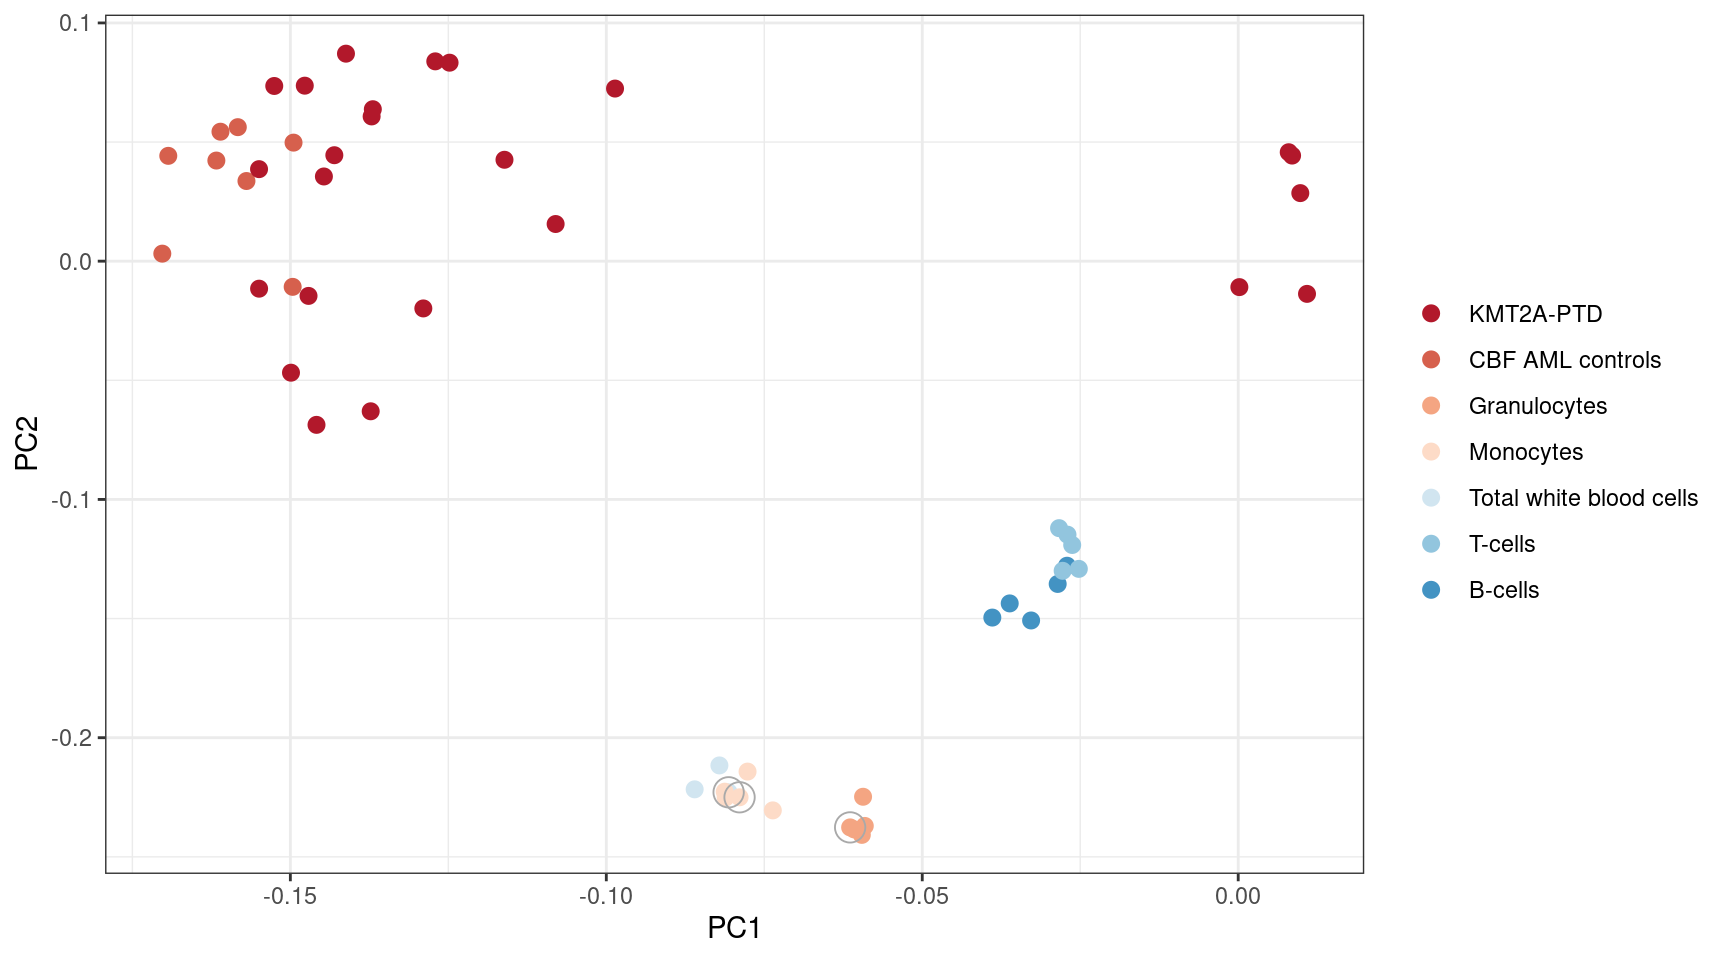
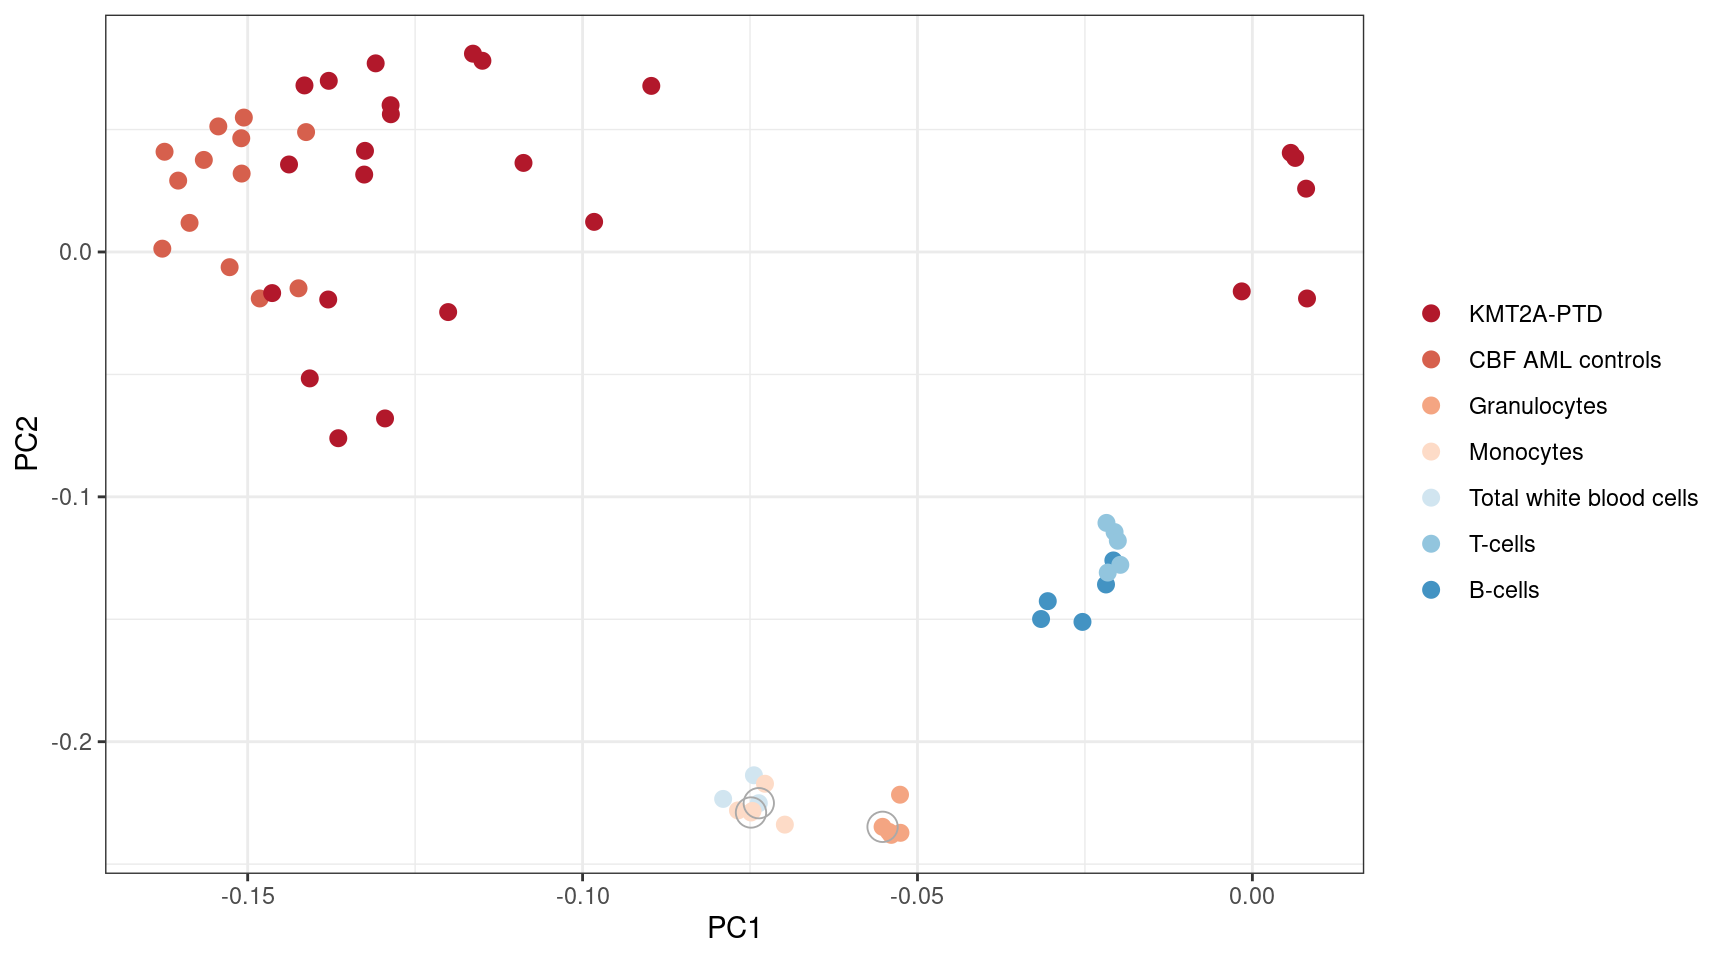
Build site.

diff --git a/docs/Leucegene_Gene_Expression.html b/docs/Leucegene_Gene_Expression.html
@@ -426,7 +426,7 @@ div.section {
 <div class="tab-content">
 <div id="summary" class="tab-pane fade in active">
 <p>
-<strong>Last updated:</strong> 2020-07-03
+<strong>Last updated:</strong> 2020-07-07
 </p>
 <p>
 <strong>Checks:</strong> <span class="glyphicon glyphicon-ok text-success" aria-hidden="true"></span> 7 <span class="glyphicon glyphicon-exclamation-sign text-danger" aria-hidden="true"></span> 0
@@ -517,10 +517,10 @@ This reproducible <a href="http://rmarkdown.rstudio.com">R Markdown</a> analysis
 <div class="panel panel-default">
 <div class="panel-heading">
 <p class="panel-title">
-<a data-toggle="collapse" data-parent="#workflowr-checks" href="#strongRepositoryversionstrongahrefhttpsgithubcomOshlackMINTIEpaperanalysistreed4fe950accca5ae95f3a844513d81603a191d248targetblankd4fe950a"> <span class="glyphicon glyphicon-ok text-success" aria-hidden="true"></span> <strong>Repository version:</strong> <a href="https://github.com/Oshlack/MINTIE-paper-analysis/tree/d4fe950accca5ae95f3a844513d81603a191d248" target="_blank">d4fe950</a> </a>
+<a data-toggle="collapse" data-parent="#workflowr-checks" href="#strongRepositoryversionstrongahrefhttpsgithubcomOshlackMINTIEpaperanalysistreef16b530f9fac5eb5adc6b95d96b52cb386e56a95targetblankf16b530a"> <span class="glyphicon glyphicon-ok text-success" aria-hidden="true"></span> <strong>Repository version:</strong> <a href="https://github.com/Oshlack/MINTIE-paper-analysis/tree/f16b530f9fac5eb5adc6b95d96b52cb386e56a95" target="_blank">f16b530</a> </a>
 </p>
 </div>
[2 lines of base64/hex data omitted]
 <div class="panel-body">
 <p>
 Great! You are using Git for version control. Tracking code development and connecting the code version to the results is critical for reproducibility. The version displayed above was the version of the Git repository at the time these results were generated. <br><br> Note that you need to be careful to ensure that all relevant files for the analysis have been committed to Git prior to generating the results (you can use <code>wflow_publish</code> or <code>wflow_git_commit</code>). workflowr only checks the R Markdown file, but you know if there are other scripts or data files that it depends on. Below is the status of the Git repository when the results were generated:
@@ -579,6 +579,40 @@ Message
 </tr>
 </thead>
 <tbody>
+<tr>
+<td>
+Rmd
+</td>
+<td>
+<a href="https://github.com/Oshlack/MINTIE-paper-analysis/blob/f16b530f9fac5eb5adc6b95d96b52cb386e56a95/analysis/Leucegene_Gene_Expression.Rmd" target="_blank">f16b530</a>
+</td>
+<td>
+Marek Cmero
+</td>
+<td>
+2020-07-07
+</td>
+<td>
+Added 5 missing leucegene AML controls to gene expression analysis
+</td>
+</tr>
+<tr>
+<td>
+html
+</td>
+<td>
+<a href="https://rawcdn.githack.com/Oshlack/MINTIE-paper-analysis/4b8113e3b803364a2a09e5abefc4627d891a3098/docs/Leucegene_Gene_Expression.html" target="_blank">4b8113e</a>
+</td>
+<td>
+Marek Cmero
+</td>
+<td>
+2020-07-03
+</td>
+<td>
+Build site.
+</td>
+</tr>
 <tr>
 <td>
 html
@@ -878,7 +912,7 @@ library(matrixStats)</code></pre>
 <pre class="r"><code>source(here(&quot;code/leucegene_helper.R&quot;))</code></pre>
 <div id="leucegene-gene-expression" class="section level1">
 <h1>Leucegene Gene Expression</h1>
-<p>Here we generate a PCA plot for all the Leucegene samples used in the MINTIE paper KMT2A-PTD and normal sample analyses, and perform a few small expression analyses presented in the paper.</p>
+<p>Here we generate a PCA plot for all the Leucegene samples used in the MINTIE paper KMT2A-PTD and normal sample analyses, and perform a few small expression analyses presented in the paper. Salmon output is not provided in the repository and must be generated by the user.</p>
 <pre class="r"><code>salmon_dir &lt;- here(&quot;data/leucegene/salmon_out&quot;)
 
 # construct list of quant.sf files 
@@ -1380,7 +1414,7 @@ data.frame(gene_types) %&gt;%
     </tr>
     <tr>
       <td class="gt_row gt_left">lncRNA</td>
-      <td class="gt_row gt_left">4110</td>
+      <td class="gt_row gt_left">4108</td>
     </tr>
     <tr>
       <td class="gt_row gt_left">misc_RNA</td>
@@ -1388,11 +1422,11 @@ data.frame(gene_types) %&gt;%
     </tr>
     <tr>
       <td class="gt_row gt_left">protein_coding</td>
-      <td class="gt_row gt_left">15049</td>
+      <td class="gt_row gt_left">15047</td>
     </tr>
     <tr>
       <td class="gt_row gt_left">Total</td>
-      <td class="gt_row gt_left">19905</td>
+      <td class="gt_row gt_left">19901</td>
     </tr>
   </tbody>
   
@@ -1401,7 +1435,7 @@ data.frame(gene_types) %&gt;%
 <pre class="r"><code>n_protein_coding &lt;- filter(gene_types, Gene_Type == &quot;protein_coding&quot;) %&gt;% select(gene_count)
 print(paste(&quot;Proportion of expressed genes that are protein coding:&quot;,
             (as.numeric(n_protein_coding) / length(expressed_genes)) %&gt;% round(4)))</code></pre>
-<pre><code>[1] &quot;Proportion of expressed genes that are protein coding: 0.7443&quot;</code></pre>
+<pre><code>[1] &quot;Proportion of expressed genes that are protein coding: 0.7444&quot;</code></pre>
 <br>
 <p>
 <button type="button" class="btn btn-default btn-workflowr btn-workflowr-sessioninfo" data-toggle="collapse" data-target="#workflowr-sessioninfo" style="display: block;">
@@ -1438,15 +1472,16 @@ other attached packages:
 loaded via a namespace (and not attached):
  [1] Rcpp_1.0.2       pillar_1.4.4     compiler_3.6.1   git2r_0.26.1    
  [5] workflowr_1.4.0  tools_3.6.1      digest_0.6.21    checkmate_2.0.0 
- [9] lattice_0.20-38  evaluate_0.14    lifecycle_0.2.0  tibble_3.0.1    
-[13] gtable_0.3.0     pkgconfig_2.0.3  rlang_0.4.6      commonmark_1.7  
-[17] yaml_2.2.0       xfun_0.10        withr_2.1.2      knitr_1.25      
-[21] sass_0.2.0       generics_0.0.2   fs_1.4.1         vctrs_0.3.1     
-[25] locfit_1.5-9.1   rprojroot_1.3-2  grid_3.6.1       tidyselect_1.1.0
-[29] glue_1.4.1       R6_2.4.0         rmarkdown_1.16   farver_2.0.3    
-[33] purrr_0.3.2      magrittr_1.5     whisker_0.4      backports_1.1.4 
-[37] scales_1.1.1     ellipsis_0.3.0   htmltools_0.4.0  colorspace_1.4-1
-[41] labeling_0.3     stringi_1.4.3    munsell_0.5.0    crayon_1.3.4    </code></pre>
+ [9] jsonlite_1.6     lattice_0.20-38  evaluate_0.14    lifecycle_0.2.0 
+[13] tibble_3.0.1     gtable_0.3.0     pkgconfig_2.0.3  rlang_0.4.6     
+[17] commonmark_1.7   yaml_2.2.0       xfun_0.10        withr_2.1.2     
+[21] knitr_1.25       sass_0.2.0       hms_0.5.1        generics_0.0.2  
+[25] fs_1.4.1         vctrs_0.3.1      locfit_1.5-9.1   rprojroot_1.3-2 
+[29] grid_3.6.1       tidyselect_1.1.0 glue_1.4.1       R6_2.4.0        
+[33] rmarkdown_1.16   farver_2.0.3     readr_1.3.1      purrr_0.3.2     
+[37] magrittr_1.5     whisker_0.4      backports_1.1.4  scales_1.1.1    
+[41] ellipsis_0.3.0   htmltools_0.4.0  colorspace_1.4-1 labeling_0.3    
+[45] stringi_1.4.3    munsell_0.5.0    crayon_1.3.4    </code></pre>
 </div>
 </div>
 </div>

diff --git a/docs/Leucegene_Normals.html b/docs/Leucegene_Normals.html
@@ -426,7 +426,7 @@ div.section {
 <div class="tab-content">
 <div id="summary" class="tab-pane fade in active">
 <p>
-<strong>Last updated:</strong> 2020-07-03
+<strong>Last updated:</strong> 2020-07-07
 </p>
 <p>
 <strong>Checks:</strong> <span class="glyphicon glyphicon-ok text-success" aria-hidden="true"></span> 7 <span class="glyphicon glyphicon-exclamation-sign text-danger" aria-hidden="true"></span> 0
@@ -517,10 +517,10 @@ This reproducible <a href="http://rmarkdown.rstudio.com">R Markdown</a> analysis
 <div class="panel panel-default">
 <div class="panel-heading">
 <p class="panel-title">
-<a data-toggle="collapse" data-parent="#workflowr-checks" href="#strongRepositoryversionstrongahrefhttpsgithubcomOshlackMINTIEpaperanalysistreed4fe950accca5ae95f3a844513d81603a191d248targetblankd4fe950a"> <span class="glyphicon glyphicon-ok text-success" aria-hidden="true"></span> <strong>Repository version:</strong> <a href="https://github.com/Oshlack/MINTIE-paper-analysis/tree/d4fe950accca5ae95f3a844513d81603a191d248" target="_blank">d4fe950</a> </a>
+<a data-toggle="collapse" data-parent="#workflowr-checks" href="#strongRepositoryversionstrongahrefhttpsgithubcomOshlackMINTIEpaperanalysistreef16b530f9fac5eb5adc6b95d96b52cb386e56a95targetblankf16b530a"> <span class="glyphicon glyphicon-ok text-success" aria-hidden="true"></span> <strong>Repository version:</strong> <a href="https://github.com/Oshlack/MINTIE-paper-analysis/tree/f16b530f9fac5eb5adc6b95d96b52cb386e56a95" target="_blank">f16b530</a> </a>
 </p>
 </div>
[2 lines of base64/hex data omitted]
 <div class="panel-body">
 <p>
 Great! You are using Git for version control. Tracking code development and connecting the code version to the results is critical for reproducibility. The version displayed above was the version of the Git repository at the time these results were generated. <br><br> Note that you need to be careful to ensure that all relevant files for the analysis have been committed to Git prior to generating the results (you can use <code>wflow_publish</code> or <code>wflow_git_commit</code>). workflowr only checks the R Markdown file, but you know if there are other scripts or data files that it depends on. Below is the status of the Git repository when the results were generated:
@@ -579,6 +579,23 @@ Message
 </tr>
 </thead>
 <tbody>
+<tr>
+<td>
+html
+</td>
+<td>
+<a href="https://rawcdn.githack.com/Oshlack/MINTIE-paper-analysis/4b8113e3b803364a2a09e5abefc4627d891a3098/docs/Leucegene_Normals.html" target="_blank">4b8113e</a>
+</td>
+<td>
+Marek Cmero
+</td>
+<td>
+2020-07-03
+</td>
+<td>
+Build site.
+</td>
+</tr>
 <tr>
 <td>
 html
